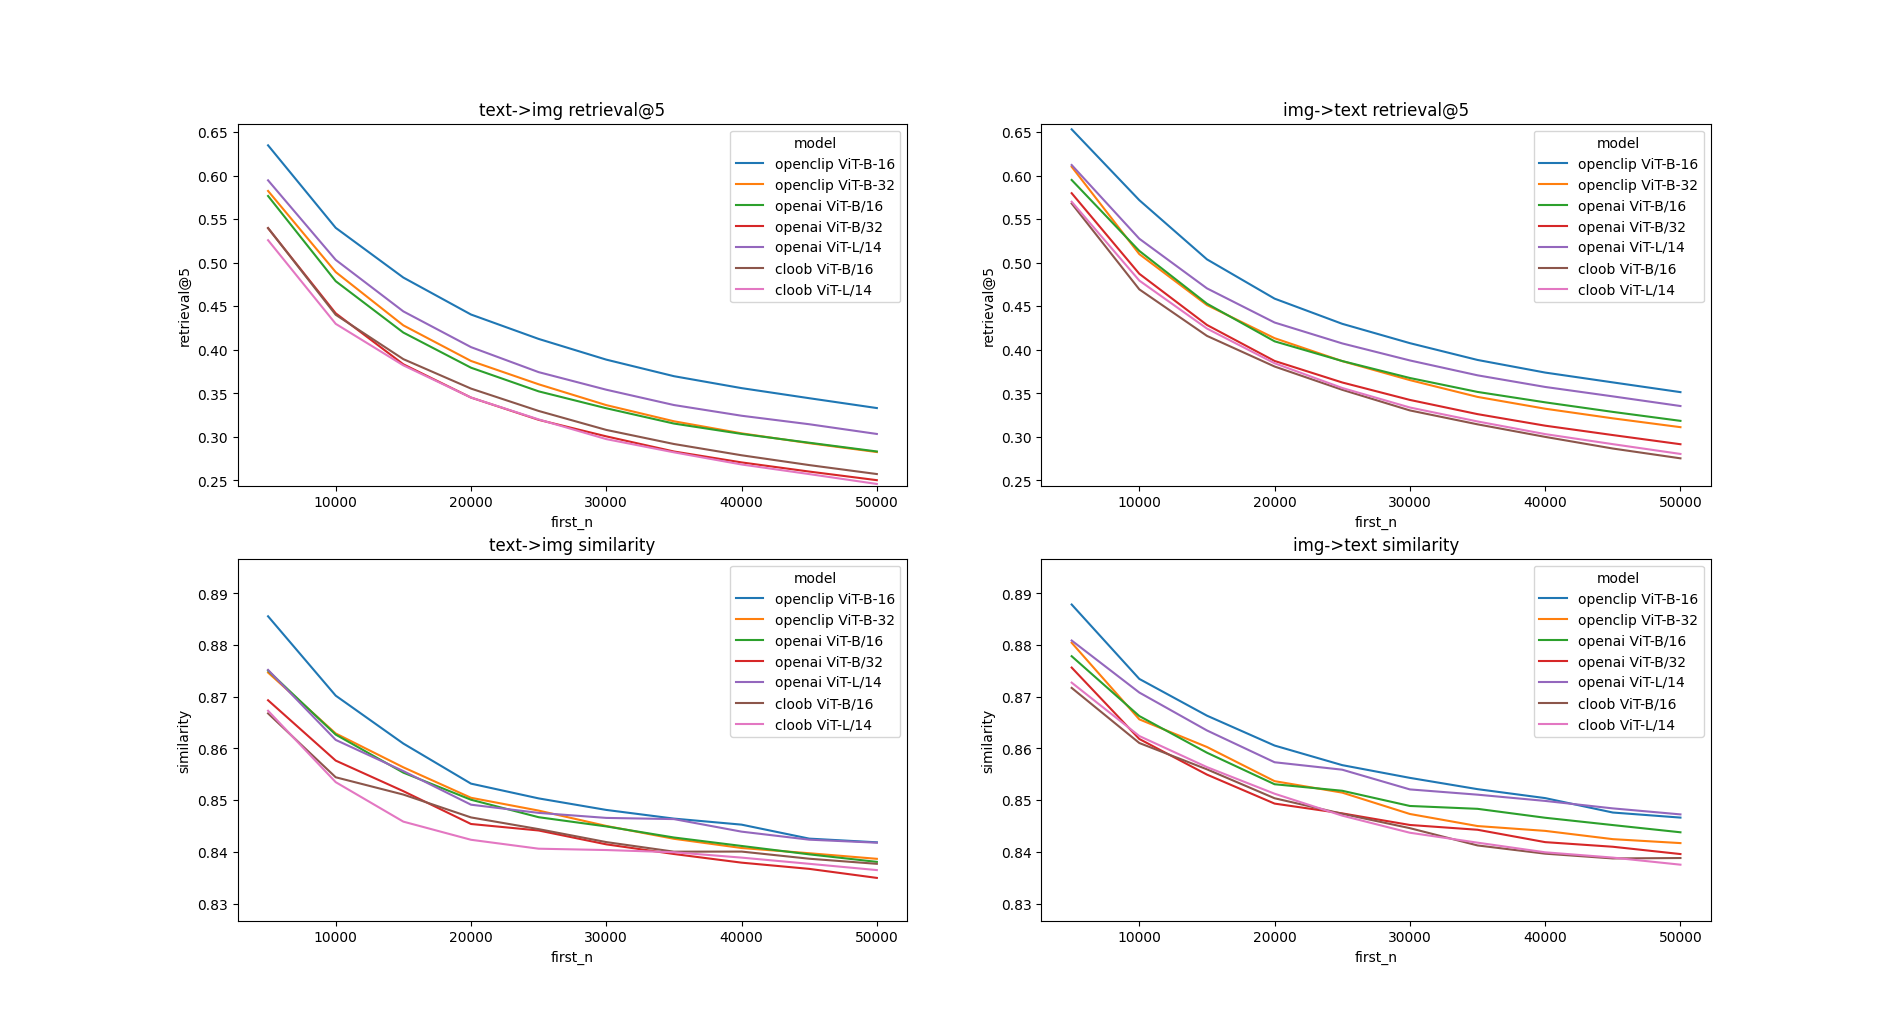
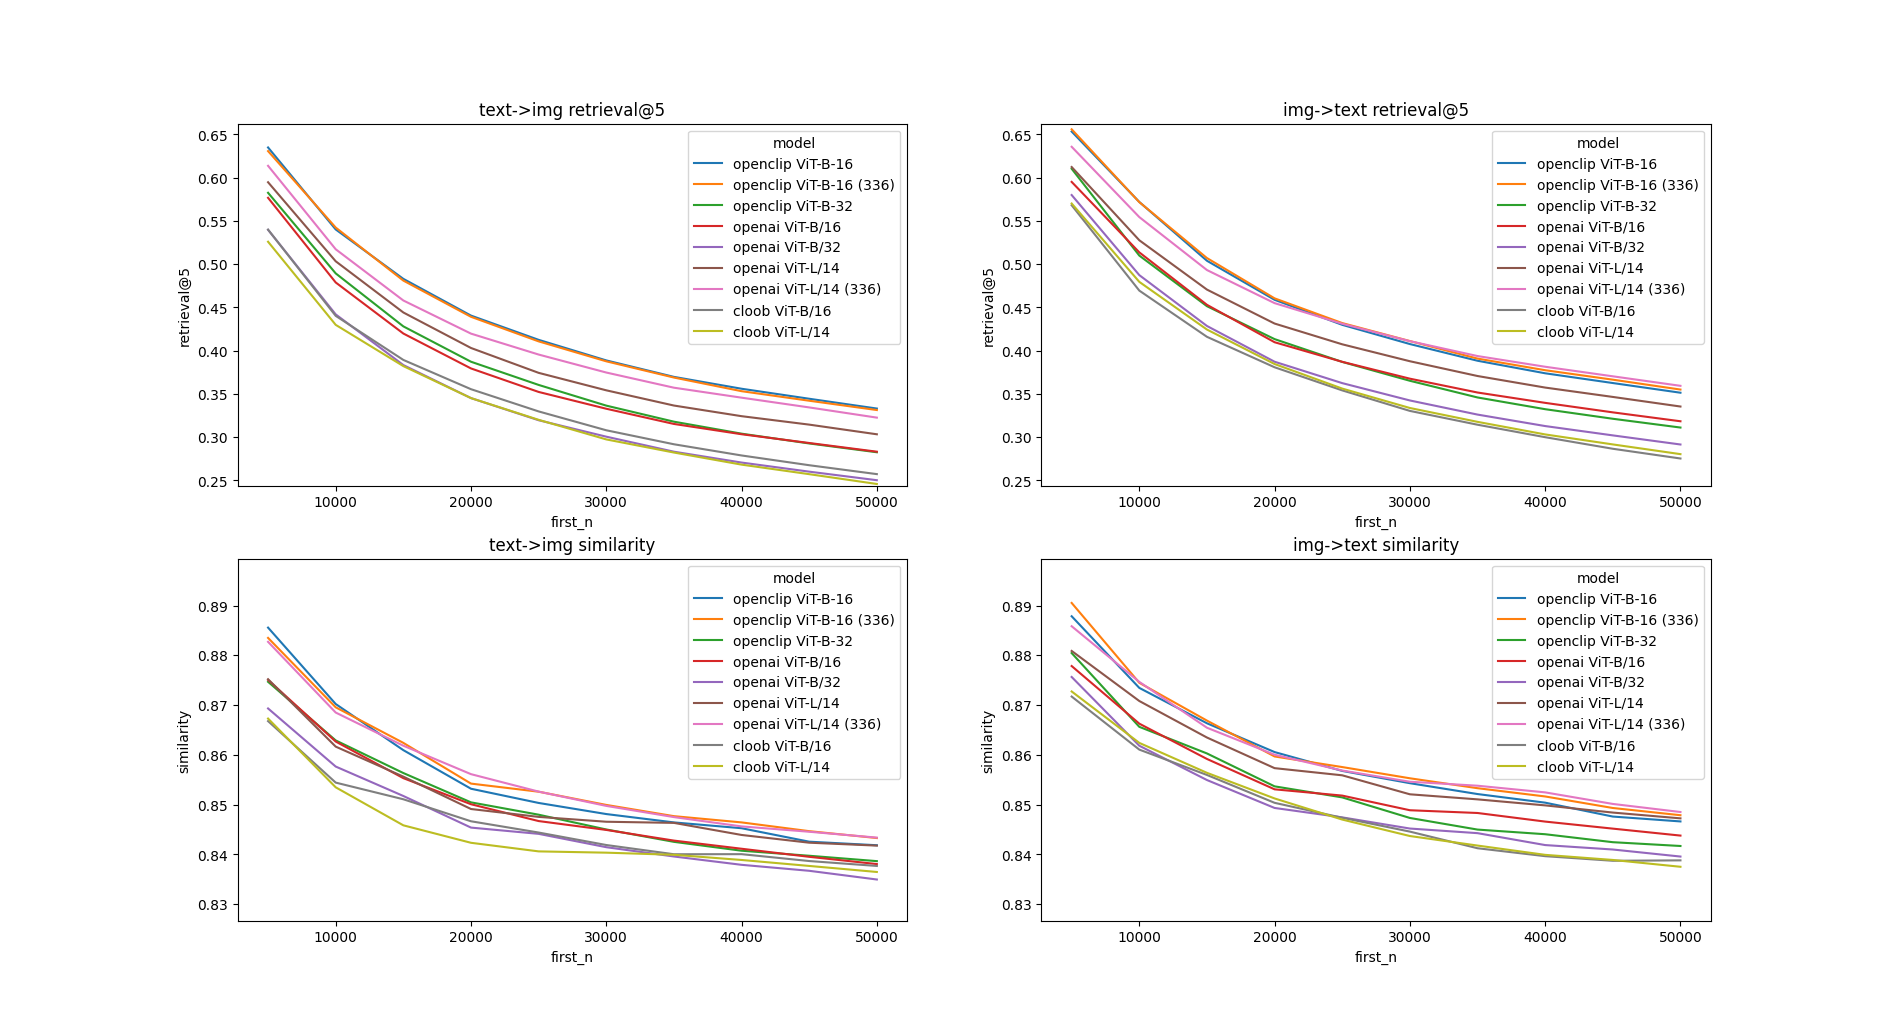
add 336

diff --git a/clip_benchmark.py b/clip_benchmark.py
@@ -113,6 +113,9 @@ def plot_models():
         "openclip ViT-B-16": dict(img_embeds="coco-embeds-open-clip-vit-b-16/img_emb/img_emb_0.npy",
                                   text_embeds="coco-embeds-open-clip-vit-b-16/text_emb/text_emb_0.npy"),
 
+        "openclip ViT-B-16 (336)": dict(img_embeds="coco-embeds-open_clip-vit-b-16-336/img_emb/img_emb_0.npy",
+                                  text_embeds="coco-embeds-open_clip-vit-b-16-336/text_emb/text_emb_0.npy"),
+
         "openclip ViT-B-32": dict(img_embeds="coco-embeds-open-clip-vit-b-32/img_emb/img_emb_0.npy",
                                   text_embeds="coco-embeds-open-clip-vit-b-32/text_emb/text_emb_0.npy"),
 
@@ -130,6 +133,9 @@ def plot_models():
 
         "openai ViT-L/14":  dict(img_embeds="coco-embeds-openai-vit-l-14/img_emb/img_emb_0.npy",
                                   text_embeds="coco-embeds-openai-vit-l-14/text_emb/text_emb_0.npy"),
+
+        "openai ViT-L/14 (336)":  dict(img_embeds="coco-embeds-openai-vit-l-14-336/img_emb/img_emb_0.npy",
+                                  text_embeds="coco-embeds-openai-vit-l-14-336/text_emb/text_emb_0.npy"),
 
         "cloob ViT-B/16":  dict(img_embeds="cloob-vit-b-16/cloob_laion_400m_vit_b_16_32_epochs_coco_train2017_image_embeds.npy",
                                   text_embeds="cloob-vit-b-16/cloob_laion_400m_vit_b_16_32_epochs_coco_train2017_text_embeds.npy"),
